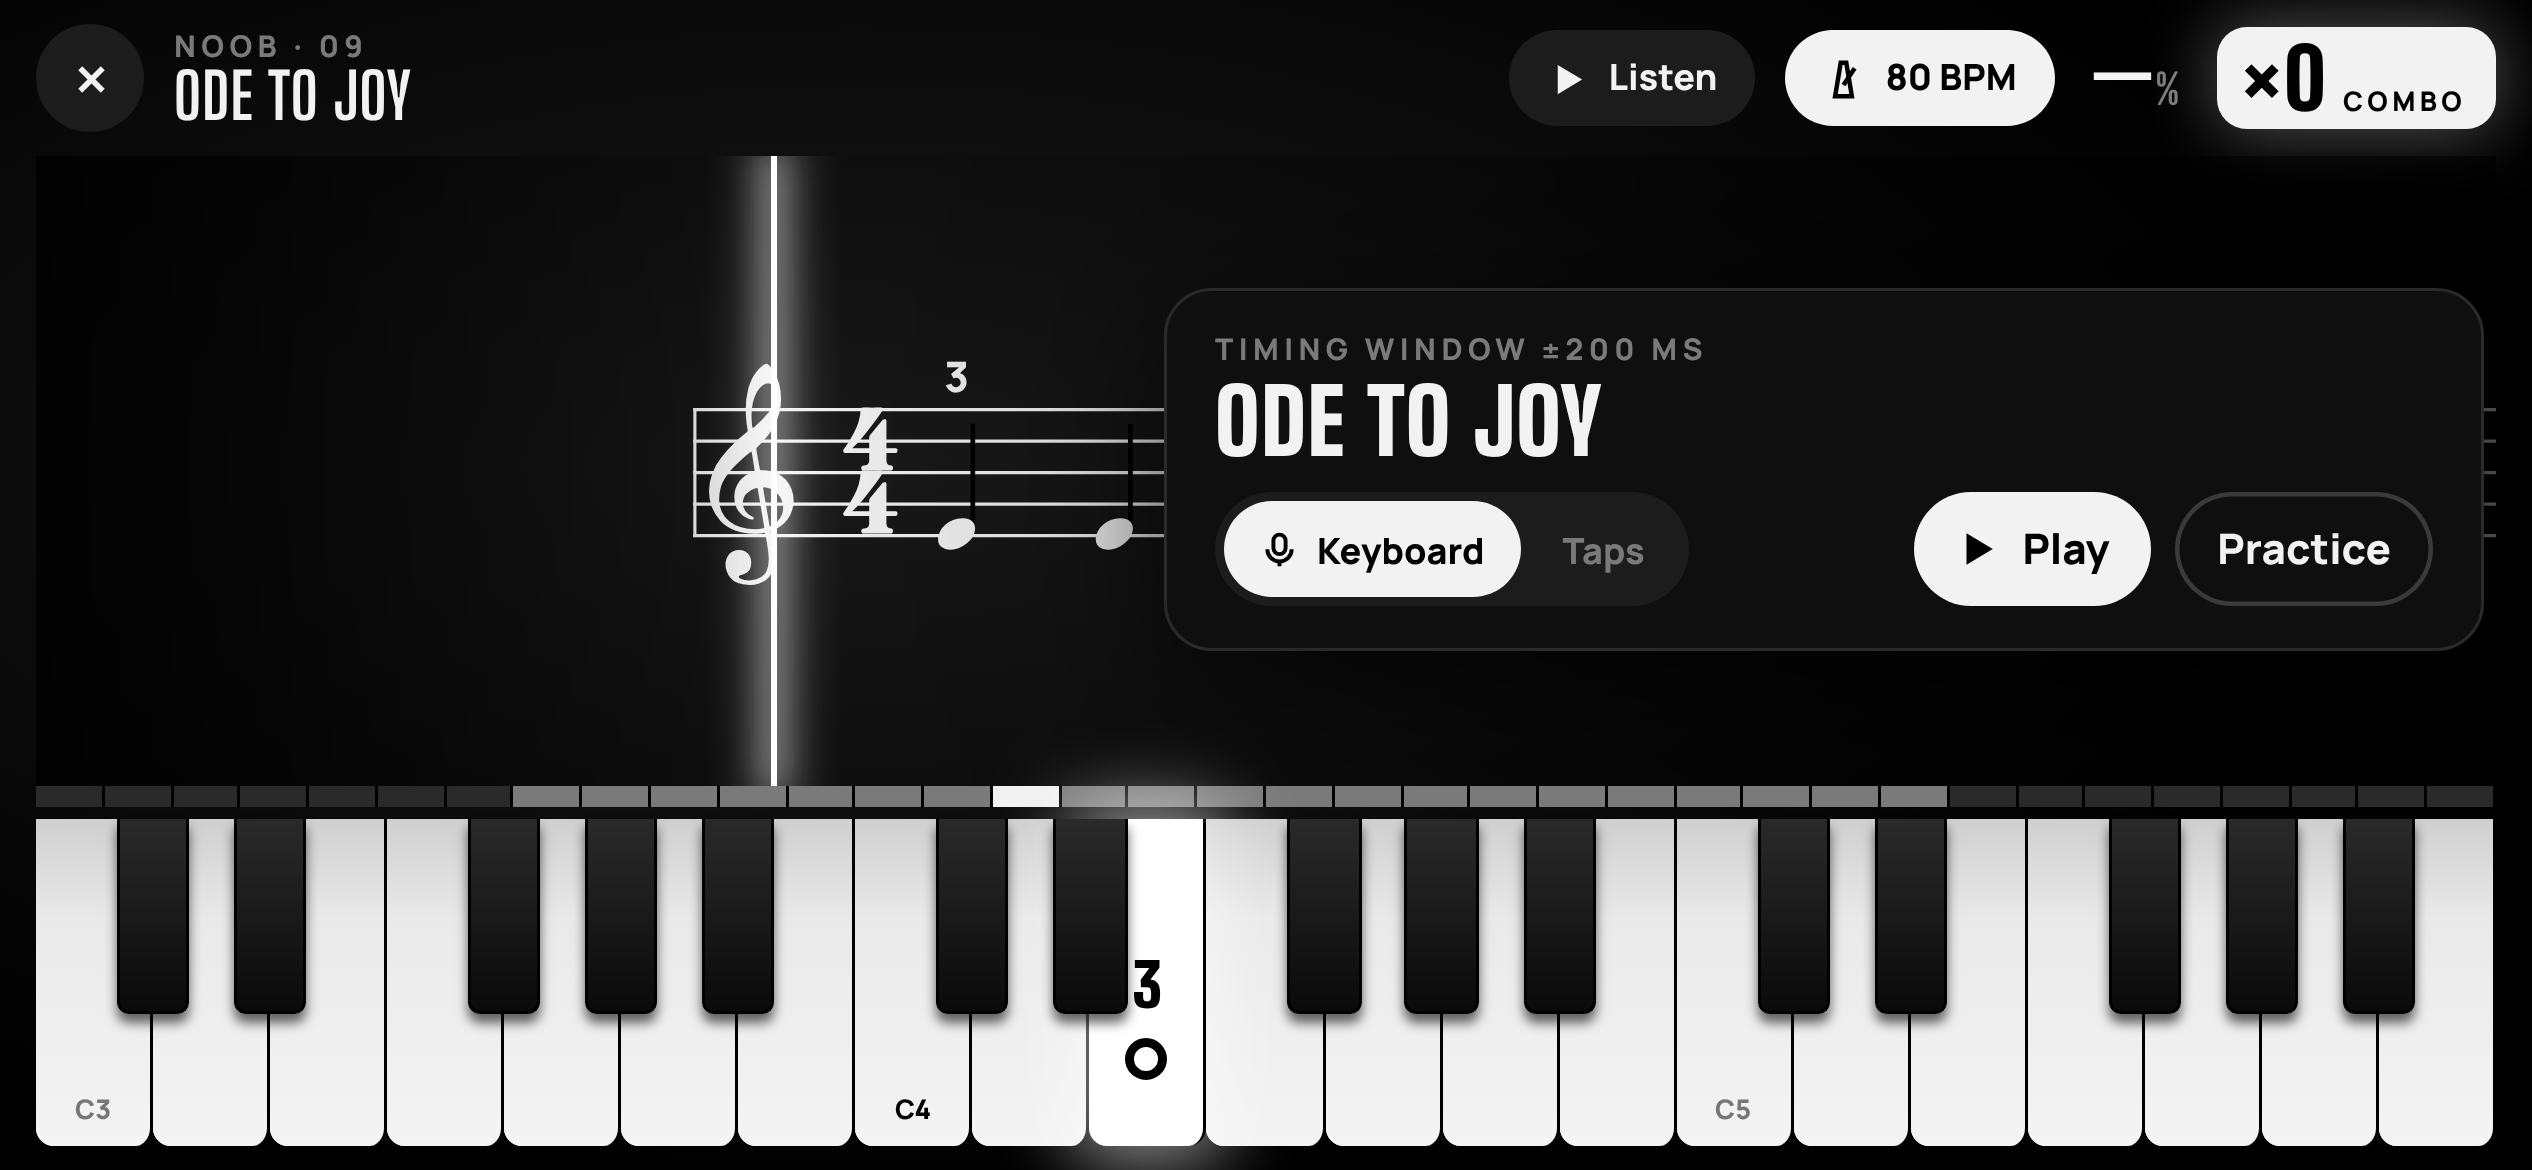
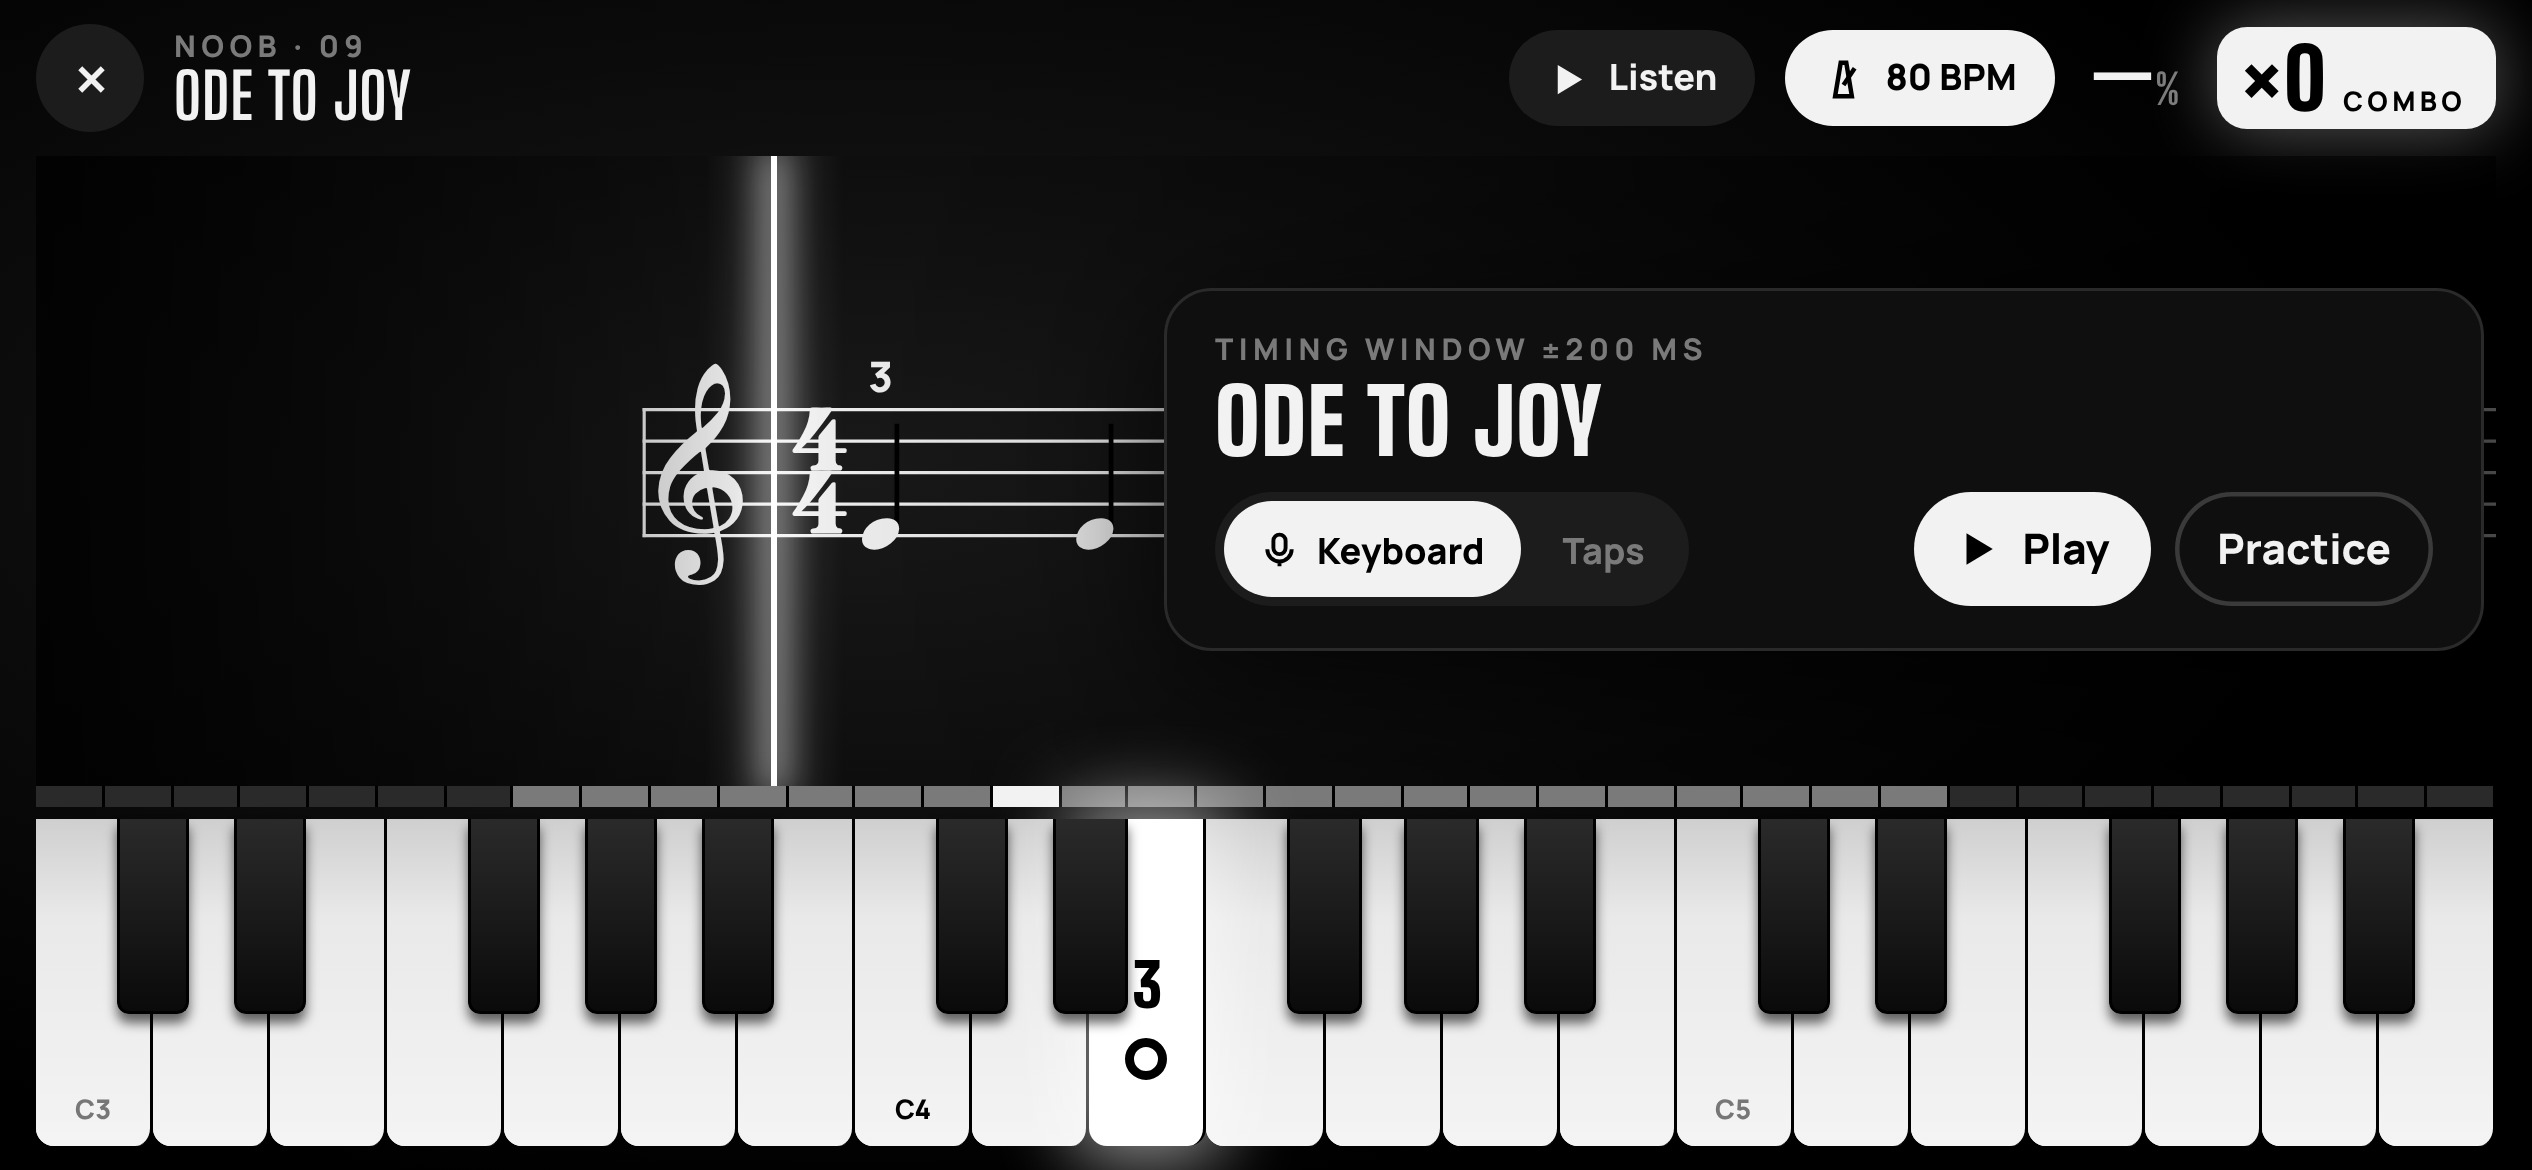
Score scrolls at one steady speed: space notes by time
Notes were spaced like printed music (short notes get more room per
beat), and the scroll followed the notes, so it sped up through busy
bars and slowed on long notes.

Now each piece has one width per beat and every note sits at
start + beat x width; beat -> x is a straight line, so the scroll speed
never changes. The width is the least that fits the piece's busiest
spot (flags of beamed notes don't count; barlines take less room),
capped at 130 px so a few beats always show ahead; where that's still
cramped, a note is nudged right a little (at most ~15 px). Whole-bar
rests sit mid-bar. Both staves now start notes at the same x, fixing a
left hand drawn 18 px late after a clef change in one hand.

e2e-levels checks every level scrolls at one speed and no note is drawn
more than 16 px from its time (79/79).

Claude-Session: https://claude.ai/code/session_018NZrvsJCL3o7UHkENKT7yr

Changed region(s): [[0.2496, 0.3077, 0.468, 0.4923], [0.3432, 0.3077, 0.4056, 0.3385]]

diff --git a/src/ui/components/score.js b/src/ui/components/score.js
@@ -109,10 +109,31 @@ export async function createScore(host, { level, parsed, fingers = true }) {
     }
     const fmt = new VF.Formatter();
     voices.forEach(({ voice }) => fmt.joinVoices([voice]));
-    const minW = fmt.preCalculateMinTotalWidth(all);
-    const beats = parts[layout[0].part][i].beats;
-    const width = Math.max(minW * 1.5 + 36, beats * 46, 120) + (clefChangesAt(i) ? 28 : 0);
-    bars.push({ voices, fmt, width, all });
+    fmt.preCalculateMinTotalWidth(all); // sizes each tick context (accidentals, dots…)
+    const m0 = parts[layout[0].part][i];
+    // Onsets in this bar (both hands share them): room each needs left and right of its x.
+    // Beamed notes draw no flag, so their flag's width doesn't count (beams group by
+    // beat, by dotted quarter in compound time, and each triplet on its own: as drawn below).
+    const beatLen = time.endsWith('/8') ? 1.5 : 1;
+    const onsets = new Map();
+    voices.forEach(({ events }) => {
+      const tri = new Map();
+      tripletGroups(events).forEach((g, k) => g.events.forEach((e) => tri.set(e, `t${k}`)));
+      const group = (e) => tri.get(e) ?? Math.floor((e.beat - m0.start) / beatLen + 1e-6);
+      const flagged = (e) => e && !e.rest && !BEAMLESS.has(e._vf.getDuration());
+      events.forEach((e, k) => {
+        const n = e._vf;
+        const mt = n.getMetrics();
+        const beamed = flagged(e) && [events[k - 1], events[k + 1]].some((o) => flagged(o) && group(o) === group(e));
+        const flag = beamed && n.getStemDirection() === VF.Stem.UP ? n.getGlyphWidth() : 0;
+        const key = Math.round(e.beat * 1e6);
+        const o = onsets.get(key) || { beat: e.beat, left: 0, right: 0 };
+        o.left = Math.max(o.left, mt.modLeftPx + mt.leftDisplacedHeadPx);
+        o.right = Math.max(o.right, mt.notePx - flag + mt.modRightPx + mt.rightDisplacedHeadPx);
+        onsets.set(key, o);
+      });
+    });
+    bars.push({ voices, fmt, all, start: m0.start, beats: m0.beats, onsets: [...onsets.values()].sort((a, b) => a.beat - b.beat) });
   }
 
   // ---------- engrave ----------
@@ -122,7 +143,69 @@ export async function createScore(host, { level, parsed, fingers = true }) {
     if (withTime) st.addTimeSignature(time);
     return st.getNoteStartX();
   };
-  const firstExtra = probe(true) + 6;
+  // ---------- time-proportional layout ----------
+  // Every beat gets the same width, so the score scrolls at one steady speed.
+  // A note sits at X(beat); barlines, clef/key/time signatures and accidentals fit
+  // in the gap before it. The width per beat is the least that keeps the busiest
+  // spot in the piece from colliding.
+  const staveFor = (i, x = 0, y = 0, w = 600) => layout.map(({ part }, s) => {
+    const clef = clefAt(part, i);
+    const st = new VF.Stave(x, y + s * STAVE_GAP, w);
+    if (i === 0) st.addClef(clef).addKeySignature(key).addTimeSignature(time);
+    else if (clef !== clefAt(part, i - 1)) st.addClef(clef, 'small');
+    if (i === 0 && parsed.repeatBeats) st.setBegBarType(VF.Barline.type.REPEAT_BEGIN);
+    return st;
+  });
+  // From a stave's left edge to where a note with tick-context x = 0 is drawn.
+  const notePad = (() => {
+    const st = new VF.Stave(0, 0, 600);
+    const n = new VF.StaveNote({ keys: ['c/4'], duration: 'q' }).setStave(st);
+    new VF.TickContext().addTickable(n).preFormat().setX(0);
+    return n.getAbsoluteX() - st.getNoteStartX();
+  })();
+  // Room from a barline to the next note: just a gap, or the clef/key/time signs.
+  const lead = bars.map((bar, i) => (i === 0 || clefChangesAt(i)
+    ? Math.max(...staveFor(i).map((st) => st.getNoteStartX() - st.getX())) + 4
+    : bar.onsets[0]?.left > 0 ? 5 : 10));
+  const GAP = 8;
+  const BAR_GAP = 6; // last note to the barline
+  const gapBefore = (o) => (o.left > 0 ? 4 : GAP); // an accidental brings its own margin
+  const END_LEAD = 14;
+  // Wide enough for the busiest spots, but capped so a few beats always show
+  // ahead of the playhead; anything still cramped is nudged right a little below.
+  const MAX_PX_PER_BEAT = 130;
+  let need = 44;
+  const flat = bars.flatMap((bar, i) => bar.onsets.map((o) => ({ ...o, bar: i })));
+  const pieceEnd = bars.at(-1).start + bars.at(-1).beats;
+  flat.forEach((a, k) => {
+    const b = flat[k + 1];
+    const [room, gap] = !b ? [a.right + GAP + END_LEAD, pieceEnd - a.beat]
+      : b.bar === a.bar ? [a.right + gapBefore(b) + b.left, b.beat - a.beat]
+        : [a.right + BAR_GAP + lead[b.bar] + b.left, bars[b.bar].start - a.beat];
+    if (gap > 1e-9) need = Math.max(need, room / gap);
+  });
+  const pxPerBeat = Math.ceil(Math.min(MAX_PX_PER_BEAT, need));
+  const start0 = bars[0].start;
+  const X0 = 20 + lead[0] + (bars[0].onsets[0]?.left ?? 0);
+  const X = (beat) => X0 + (beat - start0) * pxPerBeat;
+  // Where each note is drawn: at its time, unless the one before needs the room.
+  const noteX = new Map();
+  let edge = 20; // right edge (plus gap) of the last note placed
+  bars.forEach((bar, i) => {
+    const first = bar.onsets[0];
+    bar.x = Math.max(X(bar.start) - lead[i] - (first?.left ?? 0), i === 0 ? 20 : edge);
+    let min = bar.x + lead[i];
+    let prevRight = null;
+    bar.onsets.forEach((o) => {
+      const x = Math.max(X(o.beat), (prevRight == null ? min : prevRight + gapBefore(o)) + o.left);
+      noteX.set(Math.round(o.beat * 1e6), x);
+      prevRight = x + o.right;
+    });
+    edge = (prevRight ?? min) + BAR_GAP;
+  });
+  const endX = Math.max(X(pieceEnd), edge) + END_LEAD;
+  bars.forEach((bar, i) => { bar.width = (i + 1 < bars.length ? bars[i + 1].x : endX) - bar.x; });
+
   // The score is cut into chunks of a few bars, each its own SVG whose viewBox
   // is its slice of one long line (so drawing code uses the same coordinates).
   // Only chunks near the playhead are shown: a 30-bar piece would otherwise be
@@ -132,9 +215,8 @@ export async function createScore(host, { level, parsed, fingers = true }) {
   host.appendChild(strip);
   const barX = [];
   {
-    let bx = 20;
-    bars.forEach((bar, i) => { barX.push(bx); bx += bar.width + (i === 0 ? firstExtra : 0); });
-    barX.push(bx);
+    bars.forEach((bar) => barX.push(bar.x));
+    barX.push(endX);
   }
   const CHUNK_W = 1200;
   const chunks = [];
@@ -164,22 +246,14 @@ export async function createScore(host, { level, parsed, fingers = true }) {
   });
   const ctxOfBar = (i) => chunks[chunkOfBar[i]].ctx;
 
-  const anchors = []; // [beat, x] (unscaled)
-  let x = 20;
   const ties = [];
   bars.forEach((bar, i) => {
     const ctx = ctxOfBar(i);
-    const staves = layout.map(({ part }, s) => {
-      const clef = clefAt(part, i);
-      const w = bar.width + (i === 0 ? firstExtra : 0);
-      const st = new VF.Stave(x, top + s * STAVE_GAP, w);
-      if (i === 0) st.addClef(clef).addKeySignature(key).addTimeSignature(time);
-      else if (clef !== clefAt(part, i - 1)) st.addClef(clef, 'small');
-      if (i === 0 && parsed.repeatBeats) st.setBegBarType(VF.Barline.type.REPEAT_BEGIN);
+    const staves = staveFor(i, bar.x, top, bar.width);
+    staves.forEach((st) => {
       if (i === bars.length - 1) st.setEndBarType(parsed.repeatBeats ? VF.Barline.type.REPEAT_END : VF.Barline.type.END);
       st.setStyle({ strokeStyle: ink, fillStyle: ink });
       st.setContext(ctx).draw();
-      return st;
     });
     if (i === 0 && staves.length === 2) {
       new VF.StaveConnector(staves[0], staves[1]).setType('brace').setContext(ctx).draw();
@@ -188,9 +262,19 @@ export async function createScore(host, { level, parsed, fingers = true }) {
     if (staves.length === 2) {
       new VF.StaveConnector(staves[0], staves[1]).setType(i === bars.length - 1 ? 'boldDoubleRight' : 'singleRight').setContext(ctx).draw();
     }
-    const startX = staves[0].getNoteStartX();
-    const avail = staves[0].getNoteEndX() - startX - 14;
-    bar.fmt.format(bar.all, avail);
+    // Both hands' notes share x positions, so both staves start their notes at
+    // the same x (past a clef change in either).
+    const startX = Math.max(...staves.map((st) => st.getNoteStartX()));
+    staves.forEach((st) => st.setNoteStartX(startX));
+    bar.fmt.format(bar.all, staves[0].getNoteEndX() - startX - 14);
+    // Then put every note at its time: X(beat).
+    bar.voices.forEach((v) => v.events.forEach((e) => e._vf.getTickContext().setX(noteX.get(Math.round(e.beat * 1e6)) - startX - notePad)));
+    // A rest filling the whole bar sits in its middle, as printed music has it.
+    const mid = (startX + bar.x + bar.width) / 2;
+    bar.voices.forEach((v) => {
+      const [e] = v.events;
+      if (v.events.length === 1 && e.rest) e._vf.setXShift(mid - noteX.get(Math.round(e.beat * 1e6)) - e._vf.getGlyphWidth() / 2);
+    });
     bar.voices.forEach((v, s) => {
       v.voice.draw(ctx, staves[s]);
       // Beam plain notes by beat (by dotted quarter in 6/8); each triplet group beams on its own.
@@ -211,15 +295,10 @@ export async function createScore(host, { level, parsed, fingers = true }) {
         t.setContext(ctx).draw();
       });
     });
-    const mStart = parts[layout[0].part][i].start;
-    anchors.push([mStart, startX - 4]);
     bar.voices.forEach((v) => v.events.forEach((e) => {
       e._bar = i;
-      anchors.push([e.beat, e._vf.getAbsoluteX() + 6]);
       if (e.tie) ties.push(e);
     }));
-    x += bar.width + (i === 0 ? firstExtra : 0);
-    if (i === bars.length - 1) anchors.push([mStart + parts[layout[0].part][i].beats, staves[0].getNoteEndX() - 6]);
   });
 
   // Ties (drawn after all notes exist).
@@ -254,27 +333,11 @@ export async function createScore(host, { level, parsed, fingers = true }) {
     });
   }
 
-  // Beat → x map: monotonic anchors (unscaled px).
-  anchors.sort((a, b) => a[0] - b[0] || a[1] - b[1]);
-  const pts = [];
-  for (const a of anchors) {
-    const last = pts.at(-1);
-    if (last && Math.abs(last[0] - a[0]) < 1e-6) continue;
-    if (last && a[1] <= last[1]) continue;
-    pts.push(a);
-  }
-  const firstSlope = pts.length > 1 ? (pts[1][1] - pts[0][1]) / (pts[1][0] - pts[0][0]) : 40;
-  const lastSlope = pts.length > 1 ? (pts.at(-1)[1] - pts.at(-2)[1]) / (pts.at(-1)[0] - pts.at(-2)[0]) : 40;
-  const beatToX = (b) => {
-    if (b <= pts[0][0]) return pts[0][1] + (b - pts[0][0]) * firstSlope;
-    if (b >= pts.at(-1)[0]) return pts.at(-1)[1] + (b - pts.at(-1)[0]) * lastSlope;
-    let lo = 0;
-    let hi = pts.length - 1;
-    while (hi - lo > 1) { const mid = (lo + hi) >> 1; if (pts[mid][0] <= b) lo = mid; else hi = mid; }
-    const [b0, x0] = pts[lo];
-    const [b1, x1] = pts[hi];
-    return x0 + ((b - b0) / (b1 - b0)) * (x1 - x0);
-  };
+  // Beat → x (unscaled px): a straight line, so the scroll speed never changes.
+  // The +6 puts the playhead on the notehead rather than its left edge.
+  const beatToX = (b) => X(b) + 6;
+  // Furthest any note is drawn from its time (nudged where the music is crowded).
+  const drift = Math.max(0, ...bars.flatMap((bar) => bar.voices.flatMap((v) => v.events.map((e) => Math.abs(e._vf.getAbsoluteX() - X(e.beat))))));
 
   // ---------- sticky clef gutter ----------
   const gutter = document.createElement('div');
@@ -320,6 +383,8 @@ export async function createScore(host, { level, parsed, fingers = true }) {
     playX,
     scale,
     beatToX,
+    pxPerBeat,
+    drift,
     setBeat(beat) {
       // With repeat signs the second pass scrolls the same music again.
       const rb = parsed.repeatBeats;

diff --git a/PLAN.md b/PLAN.md
@@ -193,6 +193,7 @@ The lesson layout is the same in all three: a fixed playhead about a third of th
 - Phase 7 content tweaks: Intermediate 2 plays parallel 10ths (octaves can't be scored), Intermediate 12 block chords are right hand only.
 - Using another piano (e.g. acoustic, 88 keys): recalibrate on it; press C2/C7 for the lowest/highest steps.
 - Phase 8: saved pianos (each with its own calibration, switchable on You and on a lesson's start card); updates wait for an "Update" tap; long scores are drawn in chunks and only the on-screen part is shown (60 fps at 4× CPU throttle).
+- After Phase 8: the score is spaced by time (same width for every beat in a piece, 44–130 px), so it scrolls at one steady speed; crowded spots nudge a note a few px rather than widen the whole piece, and whole-bar rests sit mid-bar. Drills only take a fresh strike after the prompt (a released key's lingering overtone used to answer it).
 - Phase 6 sources: Mutopia Project editions converted via LilyPond → MIDI, simplified to ≤2 notes per hand at once and fitted to C2–C7.
 
 ## 6. How the mic hears chords (Phase 7)
